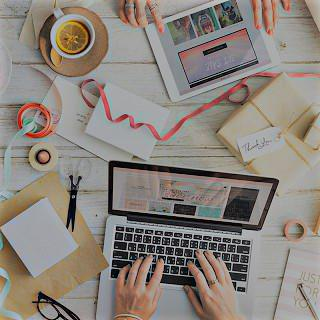
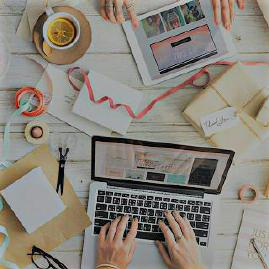
img tjrs

diff --git a/index.html b/index.html
@@ -200,7 +200,7 @@
 					<div class="col-sm-6">
 						<a href="#" data-lightbox="img/journal-local_1.webp" data-gallery-id="gallery-1"
 							data-caption="Refonte d'un site web pour un journal local" data-frame="snapshot-lb">
-							<img src="img/journal-local.webp" alt="Refonte d'un site web pour un journal local"
+							<img src="img/journal-local.jpg" alt="Refonte d'un site web pour un journal local"
 								class="img-responsive portfolio-thumb" title="site web pour un journal local" />
 						</a>
 						<h3 class="mg-md text-center">
@@ -213,7 +213,7 @@
 					<div class="col-sm-6">
 						<a href="#" data-lightbox="img/photographe_1.webp" data-gallery-id="gallery-1"
 							data-caption="Création d'un site web pour photographes" data-frame="snapshot-lb">
-							<img src="img/photographe.webp" class="img-responsive portfolio-thumb"
+							<img src="img/photographe.jpg" class="img-responsive portfolio-thumb"
 								alt="Création d'un site web pour photographes"
 								title="Création d'un site web pour photographes" />
 						</a>
@@ -229,7 +229,7 @@
 					<div class="col-sm-6">
 						<a href="#" data-lightbox="img/matériel-photo-pour-voyageur_1.webp" data-gallery-id="gallery-1"
 							data-caption="Création d'un site internet pour un voyageur" data-frame="snapshot-lb">
-							<img src="img/matériel-photo-pour-voyageur.webp" class="img-responsive portfolio-thumb"
+							<img src="img/matériel-photo-pour-voyageur.jpg" class="img-responsive portfolio-thumb"
 								alt="Création d'un site web pour voyageur"
 								title="Création d'un site web pour voyageur" />
 						</a>
